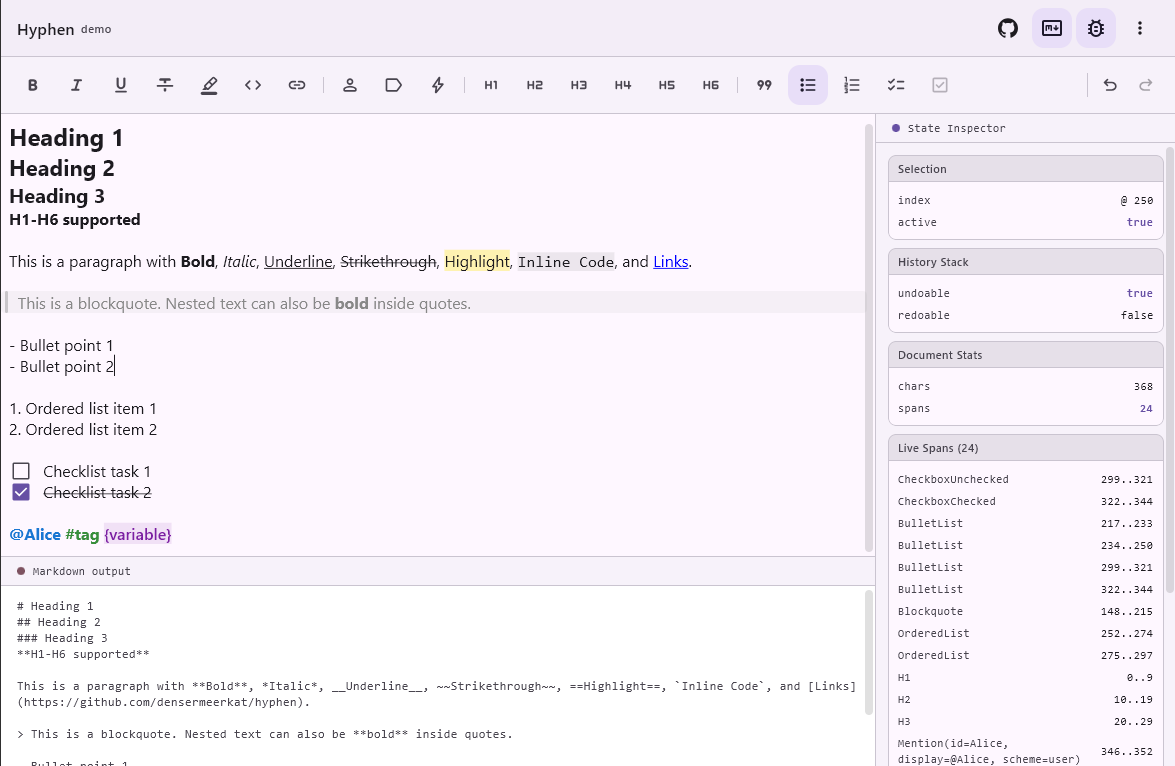
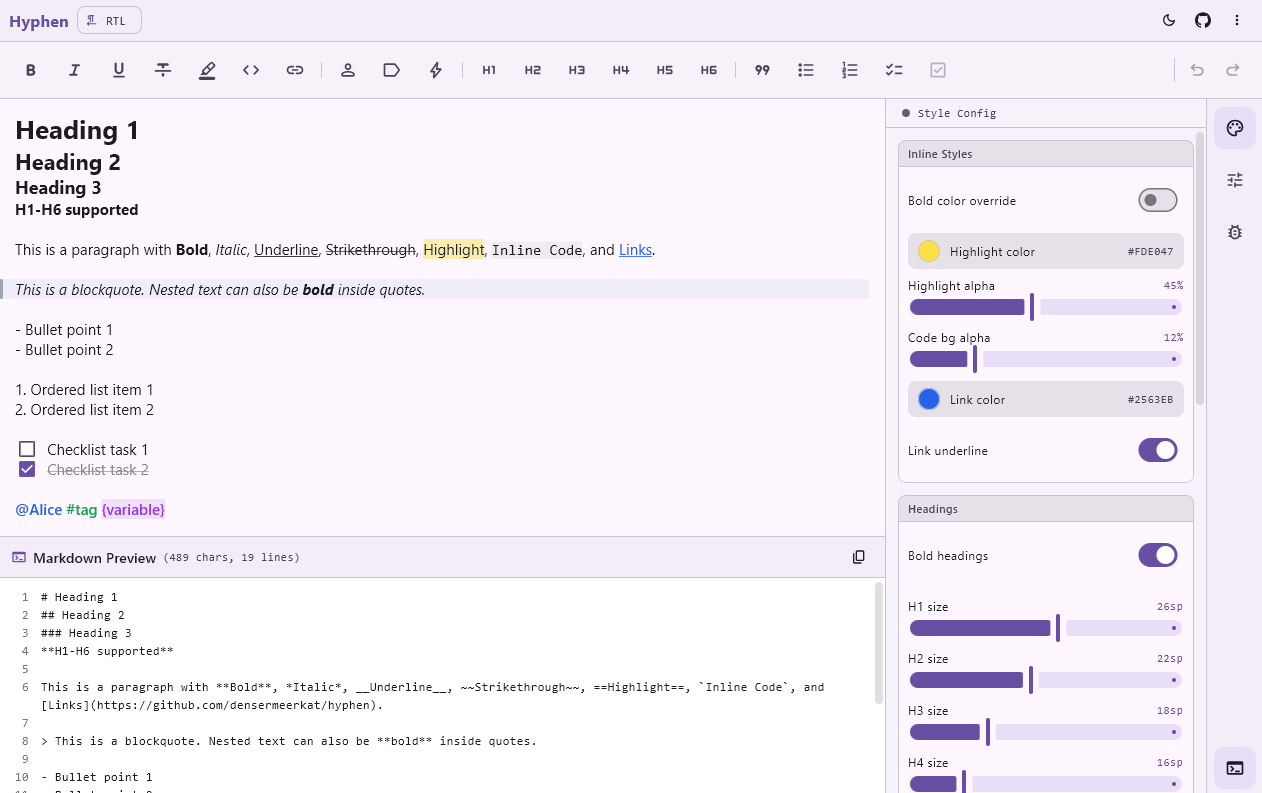
doc: add rtl support

diff --git a/sample/shared/src/commonMain/kotlin/com/denser/hyphen/sample/shared/PlaygroundScaffold.kt b/sample/shared/src/commonMain/kotlin/com/denser/hyphen/sample/shared/PlaygroundScaffold.kt
@@ -165,7 +165,7 @@ fun PlaygroundScaffold(
 }
 
 // ─────────────────────────────────────────────────────────────────────────────
-// Wide Layout: JetBrains Activity Rail | Left Tool Drawer | Main Workspace | Bottom Terminal
+// Wide Layout: Main Workspace | Right Tool Drawer | Right Activity Rail
 // ─────────────────────────────────────────────────────────────────────────────
 
 @Composable
@@ -177,50 +177,6 @@ private fun IdePlatformLayout(
     isAndroid: Boolean,
 ) {
     Row(modifier = Modifier.fillMaxSize()) {
-        // ── Left Activity Rail (JetBrains / Fleet style) ─────────────────
-        LeftActivityRail(playgroundState = playgroundState)
-
-        VerticalDivider(color = MaterialTheme.colorScheme.outlineVariant)
-
-        // ── Collapsible Left Tool Drawer (Styles & Configs) ───────────────
-        AnimatedVisibility(
-            visible = playgroundState.activeLeftTool != null,
-            enter = expandHorizontally(tween(200)) + fadeIn(tween(200)),
-            exit = shrinkHorizontally(tween(180)) + fadeOut(tween(180)),
-        ) {
-            Row(modifier = Modifier.fillMaxHeight()) {
-                Box(
-                    modifier = Modifier
-                        .width(320.dp)
-                        .fillMaxHeight()
-                        .background(MaterialTheme.colorScheme.surfaceContainerLow),
-                ) {
-                    when (playgroundState.activeLeftTool) {
-                        LeftToolWindow.StyleConfig -> StyleConfigPanel(
-                            state = playgroundState,
-                            modifier = Modifier.fillMaxSize(),
-                            verticalScrollbar = verticalScrollbar,
-                        )
-
-                        LeftToolWindow.EditorConfig -> EditorConfigPanel(
-                            state = playgroundState,
-                            modifier = Modifier.fillMaxSize(),
-                            verticalScrollbar = verticalScrollbar,
-                        )
-
-                        LeftToolWindow.StateInspector -> StateInspectorPanel(
-                            state = hyphenState,
-                            modifier = Modifier.fillMaxSize(),
-                            verticalScrollbar = verticalScrollbar,
-                        )
-
-                        null -> {}
-                    }
-                }
-                VerticalDivider(color = MaterialTheme.colorScheme.outlineVariant)
-            }
-        }
-
         // ── Central Workspace (Editor + Bottom Terminal Toolwindow) ───────
         Column(modifier = Modifier.weight(1f).fillMaxHeight()) {
             // Editor Workspace Window
@@ -262,15 +218,59 @@ private fun IdePlatformLayout(
                 }
             }
         }
+
+        // ── Collapsible Right Tool Drawer (Styles & Configs) ───────────────
+        AnimatedVisibility(
+            visible = playgroundState.activeLeftTool != null,
+            enter = expandHorizontally(tween(200)) + fadeIn(tween(200)),
+            exit = shrinkHorizontally(tween(180)) + fadeOut(tween(180)),
+        ) {
+            Row(modifier = Modifier.fillMaxHeight()) {
+                VerticalDivider(color = MaterialTheme.colorScheme.outlineVariant)
+                Box(
+                    modifier = Modifier
+                        .width(320.dp)
+                        .fillMaxHeight()
+                        .background(MaterialTheme.colorScheme.surfaceContainerLow),
+                ) {
+                    when (playgroundState.activeLeftTool) {
+                        LeftToolWindow.StyleConfig -> StyleConfigPanel(
+                            state = playgroundState,
+                            modifier = Modifier.fillMaxSize(),
+                            verticalScrollbar = verticalScrollbar,
+                        )
+
+                        LeftToolWindow.EditorConfig -> EditorConfigPanel(
+                            state = playgroundState,
+                            modifier = Modifier.fillMaxSize(),
+                            verticalScrollbar = verticalScrollbar,
+                        )
+
+                        LeftToolWindow.StateInspector -> StateInspectorPanel(
+                            state = hyphenState,
+                            modifier = Modifier.fillMaxSize(),
+                            verticalScrollbar = verticalScrollbar,
+                        )
+
+                        null -> {}
+                    }
+                }
+            }
+        }
+
+        VerticalDivider(color = MaterialTheme.colorScheme.outlineVariant)
+
+        // ── Right Activity Rail ─────────────────────────────────────────
+        RightActivityRail(playgroundState = playgroundState)
     }
 }
 
 // ─────────────────────────────────────────────────────────────────────────────
-// Left Activity Rail Component (Top items control Left Drawer, Bottom items control Bottom Terminal)
+// Right Activity Rail Component
 // ─────────────────────────────────────────────────────────────────────────────
 
 @Composable
-private fun LeftActivityRail(playgroundState: PlaygroundState) {
+private fun RightActivityRail(playgroundState: PlaygroundState) {
     Surface(
         color = MaterialTheme.colorScheme.surfaceContainer,
         modifier = Modifier.fillMaxHeight().width(56.dp),

diff --git a/hyphen/src/commonMain/kotlin/com/denser/hyphen/ui/HyphenBasicTextEditor.kt b/hyphen/src/commonMain/kotlin/com/denser/hyphen/ui/HyphenBasicTextEditor.kt
@@ -81,6 +81,7 @@ import com.denser.hyphen.ui.internal.drawBlockquotes
  * @param onTextLayout Callback invoked on text layout recalculation.
  * @param clipboardLabel Label attached to clipboard entries on copy/cut.
  * @param horizontalPadding Internal horizontal padding required to draw blockquote background and border without text overlap. Defaults to 8.dp.
+ * @param layoutDirection Optional [LayoutDirection] override. When `null`, automatically inherits [LocalLayoutDirection.current] from the surrounding Compose locale (RTL / LTR).
  * @param onTextChange Callback invoked whenever the plain text changes.
  * @param onMarkdownChange Callback invoked whenever text or formatting changes, providing
  *   the serialized Markdown string.

diff --git a/hyphen/src/commonMain/kotlin/com/denser/hyphen/ui/material3/HyphenTextField.kt b/hyphen/src/commonMain/kotlin/com/denser/hyphen/ui/material3/HyphenTextField.kt
@@ -90,6 +90,7 @@ import com.denser.hyphen.model.TriggerState
  * @param onTextLayout Callback invoked on text layout recalculation.
  * @param clipboardLabel Label attached to clipboard entries on copy/cut.
  * @param horizontalPadding Internal horizontal padding required to draw blockquote background and border without text overlap. Defaults to 8.dp.
+ * @param layoutDirection Optional [LayoutDirection] override. When `null`, automatically inherits [LocalLayoutDirection.current] from the surrounding Compose locale (RTL / LTR).
  * @param onTextChange Callback invoked whenever the plain text changes.
  * @param onMarkdownChange Callback invoked whenever text or formatting changes, providing the
  *   serialized Markdown string.

diff --git a/README.md b/README.md
@@ -31,10 +31,10 @@
 
 ## Key Pillars
 
-*   🚀 **Markdown-Native State**: Unlike traditional rich text editors, Markdown is the source of truth. The editor state is built directly around Markdown, ensuring flawless serialization and zero conversion loss.
+*   🚀 **Markdown-Native State**: Markdown is the source of truth. The editor state is built directly around Markdown, ensuring consistent serialization.
 *   ✍ **Instant Inline Formatting**: Type Markdown tags directly (`**`, `_`, `#`) and watch them transform instantly under the cursor. No preview split-panes, no mode-switching.
-*   📋 **Smart Clipboard Serialization**: Copying formatted content automatically serializes it into clean Markdown, allowing users to paste flawlessly into Slack, Discord, GitHub, or Obsidian.
-*   🏷 **First-Class Triggers & Autocomplete**: Define trigger symbols like `@` or `#` to invoke suggestion overlays with built-in hardware keyboard navigation, hover cards, and context menus.
+*   📋 **Smart Clipboard Serialization**: Copying formatted content automatically serializes it into Markdown, allowing users to paste directly into Slack, Discord, GitHub, or Obsidian.
+*   🏷 **Triggers & Autocomplete**: Define trigger symbols like `@` or `#` to invoke suggestion overlays with built-in hardware keyboard navigation, hover cards, and context menus.
 
 ---
 
@@ -209,7 +209,26 @@ HyphenTextField(
 )
 ```
 
-Both composables accept the same `styleConfig`, `mentionConfig`, `triggerPopup`, `onTextChange`, `onMarkdownChange`, and `clipboardLabel` parameters. The Material3 variant additionally accepts `colors`, `shape`, `labelPosition`, `contentPadding`, and all standard decoration slots.
+Both composables accept the same `styleConfig`, `mentionConfig`, `triggerPopup`, `onTextChange`, `onMarkdownChange`, `layoutDirection`, and `clipboardLabel` parameters. The Material3 variant additionally accepts `colors`, `shape`, `labelPosition`, `contentPadding`, and all standard decoration slots.
+
+---
+
+## 🌐 Right-to-Left (RTL) & Bi-directional (Bidi) Support
+
+Hyphen supports Right-to-Left (RTL) languages (Arabic, Hebrew, Persian):
+
+```kotlin
+// Inherit direction from local context (Default)
+HyphenBasicTextEditor(
+    state = state,
+)
+
+// Explicit direction override
+HyphenBasicTextEditor(
+    state = state,
+    layoutDirection = LayoutDirection.Rtl,
+)
+```
 
 ---
 
@@ -273,7 +292,7 @@ state.redo()
 
 ### Mentions & Autocomplete
 
-Hyphen provides a powerful trigger-based autocomplete and interaction framework for mentions (such as @users), hashtags (such as #features), or custom template variables.
+Hyphen supports trigger-based autocomplete and interaction for mentions (such as @users), hashtags (such as #features), or custom template variables.
 
 #### 1. Define Triggers
 
